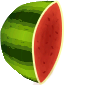
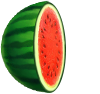
update: 水果资源

diff --git a/src/js/libs/all.js b/src/js/libs/all.js
@@ -1280,8 +1280,8 @@ define('scripts/factory/fruit.js', function (exports) {
     boom: ['js/libs/images/fruit/boom.png', 66 * globalScale, 68 * globalScale, 26 * globalScale, 0, 0, null],
     peach: [
       'js/libs/images/fruit/peach.png',
-      62 * globalScale,
-      59 * globalScale,
+      72 * globalScale,
+      72 * globalScale,
       37 * globalScale,
       -50 * globalScale,
       0,
@@ -1289,8 +1289,8 @@ define('scripts/factory/fruit.js', function (exports) {
     ],
     sandia: [
       'js/libs/images/fruit/sandia.png',
-      98 * globalScale,
-      85 * globalScale,
+      100 * globalScale,
+      94 * globalScale,
       38 * globalScale,
       -100 * globalScale,
       0,
@@ -1298,8 +1298,8 @@ define('scripts/factory/fruit.js', function (exports) {
     ],
     apple: [
       'js/libs/images/fruit/apple.png',
-      66 * globalScale,
-      66 * globalScale,
+      67 * globalScale,
+      89 * globalScale,
       31 * globalScale,
       -54 * globalScale,
       0,
@@ -1307,8 +1307,8 @@ define('scripts/factory/fruit.js', function (exports) {
     ],
     banana: [
       'js/libs/images/fruit/banana.png',
-      126 * globalScale,
-      50 * globalScale,
+      127 * globalScale,
+      76 * globalScale,
       43 * globalScale,
       90 * globalScale,
       0,
@@ -1316,8 +1316,8 @@ define('scripts/factory/fruit.js', function (exports) {
     ],
     basaha: [
       'js/libs/images/fruit/basaha.png',
+      66 * globalScale,
       68 * globalScale,
-      72 * globalScale,
       32 * globalScale,
       -135 * globalScale,
       0,
